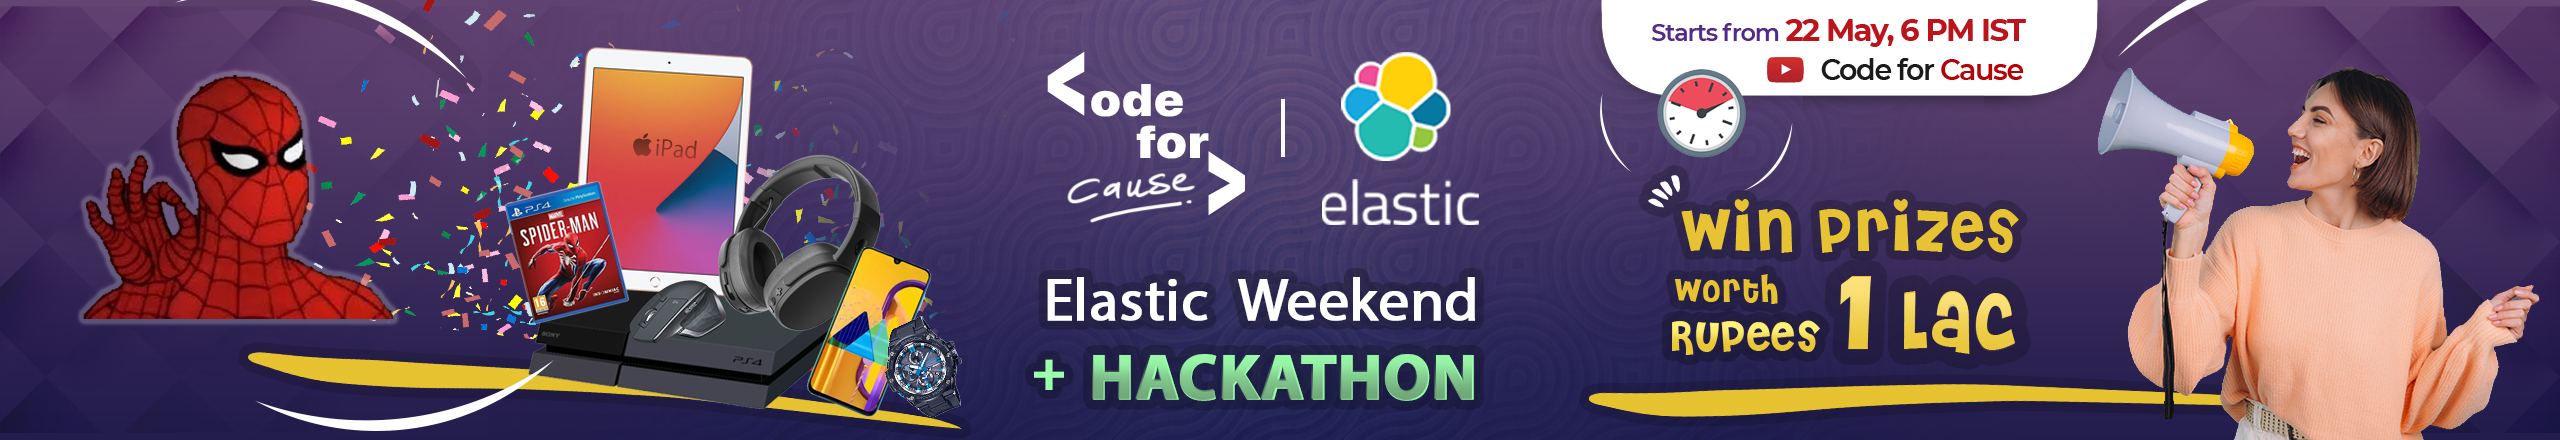
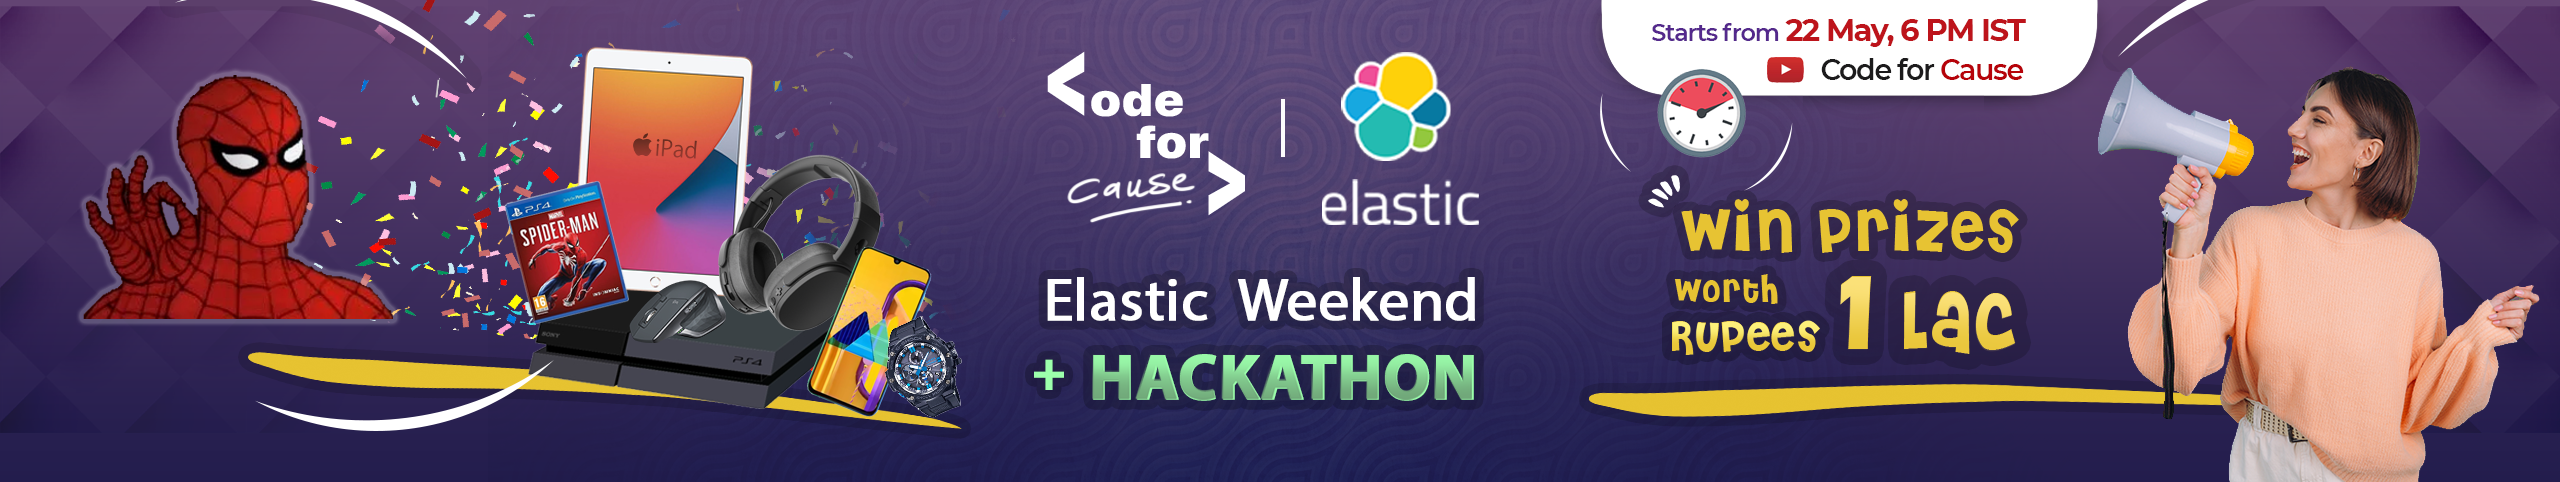
Update home for elastic weekend

diff --git a/src/views/pages/HomeView/Hero.js b/src/views/pages/HomeView/Hero.js
@@ -23,24 +23,23 @@ function Hero({ className, ...rest }) {
     <div className={className} {...rest}>
       <HeroWithLogo
         className={classes.hero}
-        title="Learn for Cause"
-        title2="Code for Cause"
+        title="Elastic Weekend"
+        title2="Prizes worth 100K"
         imageUrl="/static/home/codeforcause.svg"
         firstComponent={
           <>
             <Typography variant="body1">
-              An initiative to contribute to the Open Source community by
-              providing training, guidance, and awareness about the
-              possibilities in the field of software to students &
-              professionals.
+              {`Learn about Building Search Engines, DevOps & Security, & Data
+              Science 📈 ‼ Prizes worth INR 1 lakh, including iPad, PS4, mobile
+              phones, premium headphones, accessories, and more! 🤩`}
             </Typography>
             <div style={{ height: '16px' }}></div>
           </>
         }
         secondComponent={
           <ButtonComponent
-            title="Our Live Courses"
-            href="/courses"
+            title="Know More"
+            href="/elastic-weekend-hackathon"
             size="large"
             variant="contained"
             icon={<PlayArrowIcon style={{ paddingRight: 5 }} />}
